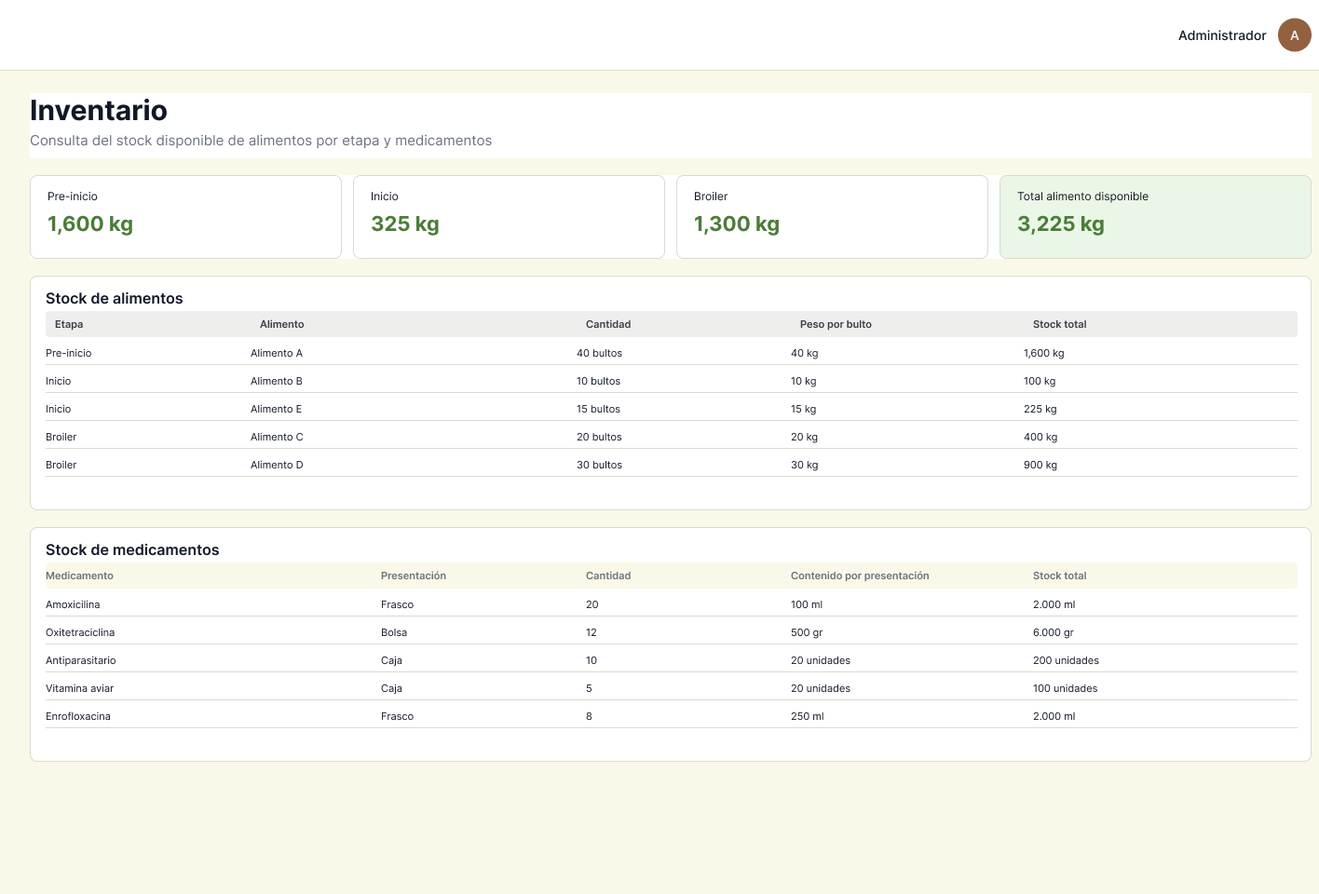
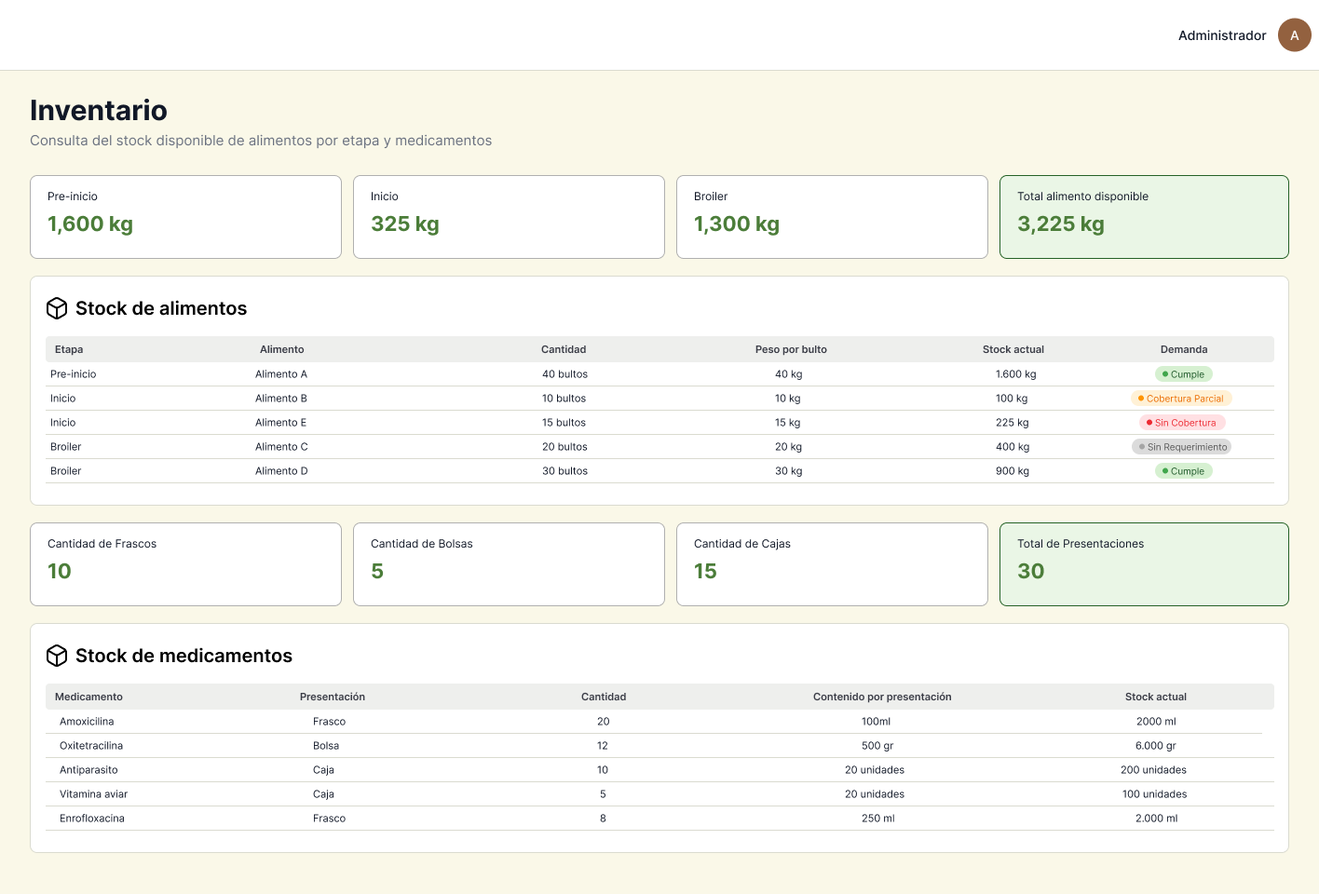
Cambios en los spec 001, 002 y 023 para que coincidan con las pantallas que tambien fueron modificadas

diff --git a/docs/specs/023-ConsultarInventario.md b/docs/specs/023-ConsultarInventario.md
@@ -1,51 +1,58 @@
 # Feature Specification: Consultar inventario
 
 **Created**: 2026-09-22
+**Updated**: 2026-09-25
 
 ## User Scenarios & Testing
 
 ### User Story 1 - Consultar existencias de alimentos y medicamentos (Priority: P1)
 
-Como administrador o nutricionista, quiero consultar en un mismo lugar las existencias disponibles de alimentos y medicamentos de la bodega central para conocer el inventario vigente y apoyar las decisiones de abastecimiento sin modificar sus movimientos.
+Como administrador, quiero consultar en un mismo lugar las existencias disponibles de alimentos y medicamentos de la bodega central para conocer el inventario vigente y apoyar las decisiones de abastecimiento sin modificar sus movimientos.
 
-**Why this priority**: La consulta consolidada permite al administrador y al nutricionista conocer la disponibilidad real de los insumos registrados mediante recepciones y afectados posteriormente por salidas, consumos o ajustes. Esta responsabilidad debe permanecer separada del registro y la edición de recepciones.
+**Why this priority**: La consulta consolidada permite al administrador conocer la disponibilidad real de los insumos registrados mediante recepciones y afectados posteriormente por salidas, consumos o ajustes. Esta responsabilidad debe permanecer separada del registro y la edición de recepciones.
 
-**Independent Test**: Se puede probar registrando recepciones y movimientos confirmados de alimentos y medicamentos, ingresando por separado como administrador y como nutricionista a la consulta y verificando que cada sección muestre los saldos disponibles consolidados en su unidad correspondiente, sin crear ni modificar datos.
+**Independent Test**: Se puede probar registrando recepciones y movimientos confirmados de alimentos y medicamentos, ingresando como administrador y verificando que las tarjetas de resumen y las dos tablas muestren los saldos disponibles consolidados en su unidad correspondiente, sin crear ni modificar datos.
 
 **Acceptance Scenarios**:
 
 1. **Scenario**: Consulta conjunta con existencias disponibles
    - **Given** que existen recepciones y movimientos confirmados de alimentos y medicamentos en la bodega central
-   - **When** el administrador o el nutricionista consulta el inventario
-   - **Then** el sistema muestra una sección de alimentos y otra de medicamentos con las existencias disponibles calculadas a partir de sus movimientos confirmados
+   - **When** el administrador consulta el inventario
+   - **Then** el sistema muestra primero el resumen y la tabla "Stock de alimentos"
+   - **And** muestra a continuación el resumen y la tabla "Stock de medicamentos"
+   - **And** calcula todas las existencias a partir de sus movimientos confirmados
 
 2. **Scenario**: Consulta de existencias de alimentos
    - **Given** que existen alimentos con saldo disponible provenientes de una o varias recepciones
-   - **When** el administrador o el nutricionista consulta la sección de alimentos
-   - **Then** el sistema agrupa las existencias por alimento, tipo de alimento y peso nominal por bulto, y muestra la cantidad disponible en kilogramos y su equivalente en bultos
+   - **When** el administrador consulta la sección de alimentos
+   - **Then** el sistema muestra las tarjetas `Pre-inicio`, `Inicio`, `Broiler` y `Total alimento disponible`, expresadas en kilogramos
+   - **And** presenta en la tabla las columnas `Etapa`, `Alimento`, `Cantidad`, `Peso por bulto`, `Stock actual` y `Demanda`
+   - **And** expresa `Cantidad` en bultos y `Stock actual` en kilogramos
 
 3. **Scenario**: Consulta de existencias de medicamentos
    - **Given** que existen medicamentos con saldo disponible provenientes de una o varias recepciones
-   - **When** el administrador o el nutricionista consulta la sección de medicamentos
-   - **Then** el sistema agrupa las existencias por medicamento, presentación y unidad base, y muestra la cantidad física equivalente y el contenido neto total disponible en `gr`, `ml` o `unidad`
+   - **When** el administrador consulta la sección de medicamentos
+   - **Then** el sistema muestra las tarjetas `Cantidad de Frascos`, `Cantidad de Bolsas`, `Cantidad de Cajas` y `Total de Presentaciones`
+   - **And** presenta en la tabla las columnas `Medicamento`, `Presentación`, `Cantidad`, `Contenido por presentación` y `Stock actual`
+   - **And** expresa el stock actual en la unidad de medida correspondiente (`gr`, `ml` o `unidades`)
 
 4. **Scenario**: Producto registrado sin existencias disponibles
    - **Given** que un alimento o medicamento del catálogo no tiene recepciones confirmadas con saldo disponible
-   - **When** el administrador o el nutricionista consulta el inventario
+   - **When** el administrador consulta el inventario
    - **Then** el sistema muestra el producto con existencia disponible igual a cero, sin confundirlo con un error de consulta
 
 5. **Scenario**: Exclusión de recepciones vencidas o anuladas
    - **Given** que existen recepciones vencidas o anuladas con saldo registrado
-   - **When** el administrador o el nutricionista consulta el inventario
+   - **When** el administrador consulta el inventario
    - **Then** el sistema excluye esas cantidades de la existencia disponible y las identifica como no disponibles
 
 6. **Scenario**: Intento de consulta por un usuario no autorizado
-   - **Given** que un usuario sin rol de administrador ni de nutricionista intenta consultar el inventario
+   - **Given** que un usuario sin rol de administrador intenta consultar el inventario
    - **When** solicita acceder a la consulta
    - **Then** el sistema rechaza el acceso y no expone información de existencias
 
 7. **Scenario**: Consulta sin modificar el inventario
-   - **Given** que el administrador o el nutricionista visualiza las existencias de alimentos y medicamentos
+   - **Given** que el administrador visualiza las existencias de alimentos y medicamentos
    - **When** navega entre las secciones o actualiza la consulta
    - **Then** el sistema vuelve a calcular la información vigente sin crear recepciones, movimientos ni ajustes, y sin modificar los saldos existentes
 
@@ -53,44 +60,86 @@ Como administrador o nutricionista, quiero consultar en un mismo lugar las exist
 
 ### User Story 2 - Consultar resumen del inventario en la pantalla de inicio (Priority: P2)
 
-Como administrador o nutricionista, quiero visualizar en la pantalla de inicio el porcentaje de ocupación de la bodega central, los productos con inventario crítico y las recepciones de alimento registradas recientemente para conocer rápidamente la situación del inventario y decidir si debo revisar su detalle.
+Como administrador, quiero visualizar en la pantalla de inicio el porcentaje de ocupación de la bodega central y las recepciones de alimento registradas recientemente para conocer rápidamente la situación del inventario y decidir si debo revisar su detalle.
 
-**Why this priority**: El resumen permite detectar falta de espacio, agotamientos y niveles bajos sin reemplazar la consulta detallada del inventario ni el registro de recepciones.
+**Why this priority**: El resumen permite conocer la ocupación general y las entradas recientes sin reemplazar la consulta detallada del inventario ni el registro de recepciones.
 
-**Independent Test**: Se puede probar configurando la capacidad máxima de la bodega central, registrando su ocupación vigente, alimentos con saldos de 0 kg, 10 kg y 20 kg, y más de cinco recepciones confirmadas. La pantalla debe calcular el porcentaje de ocupación, clasificar los alimentos como `Sin stock`, `Stock bajo` o `Disponible`, y mostrar únicamente las cinco recepciones de alimento más recientes.
+**Independent Test**: Se puede probar configurando la capacidad máxima de la bodega central, registrando su ocupación vigente y más de cinco recepciones confirmadas. La pantalla debe calcular el porcentaje de ocupación y mostrar únicamente las cinco recepciones de alimento más recientes.
 
 **Acceptance Scenarios**:
 
 1. **Scenario**: Cálculo del porcentaje de ocupación
    - **Given** que la bodega central tiene una capacidad máxima de almacenamiento y una ocupación actual expresadas en la misma unidad
-   - **When** el administrador o el nutricionista ingresa a la pantalla de inicio
+   - **When** el administrador ingresa a la pantalla de inicio
    - **Then** el sistema muestra el porcentaje de ocupación calculado como `ocupación actual ÷ capacidad máxima × 100`
 
-2. **Scenario**: Clasificación del estado de disponibilidad de un alimento
-   - **Given** que el inventario tiene alimentos con 0 kg, con más de 0 kg y menos de 20 kg, y con 20 kg o más disponibles
-   - **When** el administrador o el nutricionista consulta el resumen de inventario crítico
-   - **Then** el sistema los clasifica respectivamente como `Sin stock`, `Stock bajo` y `Disponible`
-
-3. **Scenario**: Visualización de medicamentos críticos
-   - **Given** que cada medicamento o presentación tiene configurado un nivel mínimo de existencia en su unidad base
-   - **When** el administrador o el nutricionista consulta el resumen de inventario crítico
-   - **Then** el sistema muestra `Sin stock` cuando la existencia es cero, `Stock bajo` cuando es mayor que cero pero inferior al mínimo configurado y `Disponible` cuando alcanza o supera ese mínimo
-
-4. **Scenario**: Visualización de recepciones recientes de alimento
+2. **Scenario**: Visualización de recepciones recientes de alimento
    - **Given** que existen más de cinco recepciones de alimento confirmadas
-   - **When** el administrador o el nutricionista ingresa a la pantalla de inicio
+   - **When** el administrador ingresa a la pantalla de inicio
    - **Then** el sistema muestra las cinco recepciones más recientes ordenadas desde la más nueva, indicando código de lote, alimento, cantidad de bultos, precio por bulto, peso por bulto y fecha de ingreso
 
-5. **Scenario**: Resumen sin alterar el inventario
-   - **Given** que el administrador o el nutricionista visualiza o actualiza el resumen del inventario
+3. **Scenario**: Resumen sin alterar el inventario
+   - **Given** que el administrador visualiza o actualiza el resumen del inventario
    - **When** el sistema recalcula sus indicadores
    - **Then** no crea ni modifica la bodega, los productos, las recepciones, los movimientos ni sus existencias
+
+---
+
+### User Story 3 - Consultar cobertura del requerimiento de alimento (Priority: P1)
+
+Como administrador, quiero identificar desde la tabla de stock si las existencias cubren el requerimiento proyectado de alimento de los lotes activos y abrir su detalle, para conocer oportunamente cuándo existe cobertura total, parcial o nula.
+
+**Why this priority**: La comparación permite convertir el inventario y los requerimientos nutricionales en una señal inmediata para la toma de decisiones de abastecimiento, sin reservar ni descontar alimento.
+
+**Independent Test**: Se puede probar configurando cuatro filas de alimento con demanda y stock que produzcan respectivamente los estados `Cumple`, `Cobertura Parcial`, `Sin Cobertura` y `Sin Requerimiento`; cada estado debe mostrarse como un botón del color definido y abrir el modal con los datos de la fila seleccionada.
+
+**Acceptance Scenarios**:
+
+1. **Scenario**: Cobertura total del requerimiento
+   - **Given** una demanda consolidada mayor que `0 kg`
+   - **And** un stock actual mayor o igual a la demanda
+   - **When** el administrador consulta el stock de alimentos
+   - **Then** el sistema muestra un botón verde con la etiqueta `Cumple` en la columna "Demanda"
+
+2. **Scenario**: Cobertura parcial del requerimiento
+   - **Given** una demanda consolidada mayor que `0 kg`
+   - **And** un stock actual mayor que `0 kg` pero menor que la demanda
+   - **When** el administrador consulta el stock de alimentos
+   - **Then** el sistema muestra un botón naranja con la etiqueta `Cobertura Parcial` en la columna "Demanda"
+
+3. **Scenario**: Ausencia de cobertura
+   - **Given** una demanda consolidada mayor que `0 kg`
+   - **And** un stock actual igual a `0 kg`
+   - **When** el administrador consulta el stock de alimentos
+   - **Then** el sistema muestra un botón rojo con la etiqueta `Sin Cobertura` en la columna "Demanda"
+
+4. **Scenario**: Alimento sin requerimiento vigente
+   - **Given** una demanda consolidada igual a `0 kg`
+   - **When** el administrador consulta el stock de alimentos
+   - **Then** el sistema muestra un botón gris con la etiqueta `Sin Requerimiento` en la columna "Demanda"
+
+5. **Scenario**: Consulta del detalle del requerimiento
+   - **Given** que el administrador visualiza uno de los botones de la columna "Demanda"
+   - **When** selecciona el botón
+   - **Then** el sistema abre el modal "Detalles requerimiento de alimento"
+   - **And** muestra en modo de solo lectura los campos `Alimento`, `Etapa`, `Stock actual` y `Demanda`
+   - **And** permite cerrarlo mediante el icono de cierre o el botón "Cancelar"
+
+6. **Scenario**: Medicamentos sin demanda nutricional
+   - **Given** que el administrador consulta el stock de medicamentos
+   - **When** se presenta la tabla de medicamentos
+   - **Then** el sistema no muestra una columna de demanda ni estados de cobertura nutricional
+
+7. **Scenario**: Consulta de cobertura sin movimientos de inventario
+   - **Given** que el administrador abre un detalle de requerimiento
+   - **When** consulta o cierra el modal
+   - **Then** el sistema no reserva alimento, no descuenta existencias y no crea movimientos de inventario
 
 ### Edge Cases
 
 - **Edge case #1 - Movimientos concurrentes durante la consulta**
 
-  - ¿Qué sucede si se confirma una entrada, salida, consumo o ajuste mientras el administrador o el nutricionista tiene abierta la consulta?
+  - ¿Qué sucede si se confirma una entrada, salida, consumo o ajuste mientras el administrador tiene abierta la consulta?
     El sistema debe obtener una vista consistente de los movimientos confirmados al momento de ejecutar o actualizar la consulta. No debe combinar saldos calculados en momentos diferentes dentro de una misma respuesta.
 
 - **Edge case #2 - Alimentos con diferentes pesos nominales por bulto**
@@ -98,96 +147,50 @@ Como administrador o nutricionista, quiero visualizar en la pantalla de inicio e
   - ¿Cómo presenta el sistema varias recepciones del mismo alimento con pesos nominales por bulto diferentes?
     El sistema debe agruparlas por alimento, tipo de alimento y peso nominal por bulto. No debe sumar como una sola cantidad de bultos presentaciones con pesos nominales diferentes; el total general de alimento sí puede consolidarse en kilogramos.
 
-- **Edge case #3 - Medicamentos con unidades base incompatibles**
-
-  - ¿Cómo presenta el sistema existencias de un medicamento registradas en presentaciones con unidades base diferentes?
-    El sistema debe mantener grupos separados por medicamento, presentación y unidad base. No debe sumar entre sí cantidades expresadas en `gr`, `ml` y `unidad`.
-
-- **Edge case #4 - Saldo calculado negativo**
-
-  - ¿Qué sucede si la consolidación de movimientos produce un saldo negativo para una recepción o producto?
-    El sistema debe informar una inconsistencia de inventario, no presentar el valor negativo como existencia disponible y conservar el modo de solo lectura. La consulta no debe crear ajustes automáticos.
-
-- **Edge case #5 - Capacidad máxima igual a cero o no configurada**
-
-  - ¿Cómo calcula el sistema la ocupación cuando la capacidad máxima de la bodega central es cero o no está configurada?
-    El sistema debe indicar que el porcentaje no está disponible, evitar una división por cero y no sustituir la capacidad con un valor supuesto.
-
-- **Edge case #6 - Empate entre recepciones recientes**
-
-  - ¿Cómo ordena el sistema dos recepciones con la misma fecha de ingreso?
-    El sistema debe utilizar en segundo lugar la fecha y hora de registro y, si el empate continúa, el identificador de la recepción para producir un orden estable.
-
 ## Requirements
 
 ### Functional Requirements
 
-- **FR-001**: El sistema DEBE permitir la consulta del inventario exclusivamente a usuarios autenticados con rol de administrador o de nutricionista.
+- **FR-001**: El sistema DEBE permitir la consulta del inventario exclusivamente a usuarios autenticados con rol de administrador.
 - **FR-002**: El sistema DEBE presentar en una misma funcionalidad dos secciones diferenciadas: existencias de alimentos y existencias de medicamentos.
 - **FR-003**: La existencia disponible DEBE calcularse exclusivamente a partir de movimientos confirmados de entrada, salida, consumo y ajuste vinculados con las recepciones de la bodega central.
-- **FR-004**: Para cada grupo de alimentos, el sistema DEBE mostrar el alimento, el tipo de alimento, el peso nominal por bulto, la existencia disponible en kilogramos y la cantidad equivalente en bultos.
-- **FR-005**: El sistema DEBE agrupar los alimentos por alimento, tipo de alimento y peso nominal por bulto, sin mezclar en una misma cantidad de bultos recepciones con pesos nominales diferentes.
-- **FR-006**: El sistema DEBE mostrar el total general de alimento disponible en kilogramos y los subtotales por tipo de alimento.
-- **FR-007**: Para cada grupo de medicamentos, el sistema DEBE mostrar el medicamento, la presentación, la unidad base, la cantidad física equivalente y el contenido neto total disponible.
+- **FR-004**: La tabla "Stock de alimentos" DEBE mostrar exactamente las columnas `Etapa`, `Alimento`, `Cantidad`, `Peso por bulto`, `Stock actual` y `Demanda`; `Cantidad` se expresa en bultos y `Stock actual` en kilogramos.
+- **FR-005**: El sistema DEBE agrupar los alimentos por etapa, alimento y peso nominal por bulto, sin mezclar en una misma cantidad de bultos recepciones con pesos nominales diferentes.
+- **FR-006**: El sistema DEBE mostrar tarjetas con los kilogramos disponibles de las etapas `Pre-inicio`, `Inicio` y `Broiler`, además de la tarjeta `Total alimento disponible` con la suma de todas las etapas.
+- **FR-007**: La tabla "Stock de medicamentos" DEBE mostrar exactamente las columnas `Medicamento`, `Presentación`, `Cantidad`, `Contenido por presentación` y `Stock actual`, conservando la unidad de medida correspondiente.
 - **FR-008**: El sistema DEBE agrupar los medicamentos por medicamento, presentación y unidad base, sin sumar cantidades expresadas en unidades base incompatibles.
 - **FR-009**: El sistema DEBE mostrar los productos activos del catálogo sin saldo disponible con existencia igual a cero.
 - **FR-010**: El sistema DEBE excluir de la existencia disponible los saldos de recepciones vencidas o anuladas e identificarlos como no disponibles.
-- **FR-011**: Cada ejecución o actualización de la consulta DEBE utilizar una vista consistente y vigente de los movimientos confirmados.
-- **FR-012**: Si la consolidación produce un saldo negativo, el sistema DEBE informar una inconsistencia y NO DEBE presentar dicho valor como existencia disponible ni generar ajustes automáticos.
-- **FR-013**: La consulta DEBE operar estrictamente en modo de solo lectura y NO DEBE crear, editar o eliminar recepciones, movimientos, consumos, despachos ni ajustes.
-- **FR-014**: El sistema DEBE rechazar la consulta de inventario realizada por cualquier usuario que no tenga el rol de administrador ni de nutricionista.
-- **FR-015**: La bodega central DEBE disponer de una capacidad máxima de almacenamiento, una ocupación actual y una unidad de capacidad común que permita comparar ambos valores.
-- **FR-016**: El sistema DEBE calcular el porcentaje de ocupación como `ocupación actual ÷ capacidad máxima × 100` y mostrarlo en la pantalla de inicio del administrador y del nutricionista.
-- **FR-017**: Si la capacidad máxima es cero o no está configurada, el sistema DEBE indicar que el porcentaje de ocupación no está disponible y NO DEBE intentar calcularlo.
-- **FR-018**: El estado de disponibilidad de un alimento DEBE calcularse a partir de su existencia vigente: `Sin stock` cuando sea igual a 0 kg, `Stock bajo` cuando sea mayor que 0 kg y menor que 20 kg, y `Disponible` cuando sea igual o superior a 20 kg.
-- **FR-019**: El estado de disponibilidad de un medicamento DEBE calcularse en su unidad base: `Sin stock` cuando su existencia sea cero, `Stock bajo` cuando sea mayor que cero e inferior al mínimo configurado para el medicamento o presentación, y `Disponible` cuando alcance o supere dicho mínimo.
-- **FR-020**: El estado de disponibilidad DEBE ser un valor calculado de la existencia y NO un atributo editable del catálogo de alimentos o medicamentos.
-- **FR-021**: El resumen de inventario crítico DEBE mostrar como mínimo todos los alimentos y medicamentos clasificados como `Stock bajo` o `Sin stock`.
-- **FR-022**: La pantalla de inicio DEBE mostrar las cinco recepciones de alimento confirmadas más recientes, ordenadas por fecha de ingreso, fecha y hora de registro e identificador en orden descendente.
-- **FR-023**: Para cada recepción reciente, el sistema DEBE mostrar código de lote, alimento, cantidad de bultos, precio neto de compra por bulto, peso nominal por bulto y fecha de ingreso.
-- **FR-024**: El resumen del inventario DEBE operar en modo de solo lectura y utilizar la misma información vigente que la consulta detallada.
 
 ### Key Entities
 
-- **Bodega central**: Representa el inventario principal cuyas existencias consultan el administrador y el nutricionista.
+- **Bodega central**: Representa el inventario principal cuyas existencias consulta el administrador.
   - **Atributos utilizados**: capacidad máxima de almacenamiento, ocupación actual y unidad de capacidad.
   - **Relaciones**: recibe las recepciones de alimentos y medicamentos y reúne los movimientos que determinan sus saldos disponibles y su ocupación.
 - **Existencia de alimento**: Representa el resultado de consolidar los movimientos confirmados de alimento.
-  - **Datos mostrados**: alimento, tipo de alimento, peso nominal por bulto, kilogramos disponibles y bultos equivalentes.
+  - **Datos mostrados**: etapa, alimento, cantidad de bultos, peso nominal por bulto, stock actual en kilogramos y estado de demanda.
   - **Origen**: se calcula a partir de las recepciones de alimento definidas en el SPEC-001 y sus movimientos asociados.
 - **Existencia de medicamento**: Representa el resultado de consolidar los movimientos confirmados de medicamento.
-  - **Datos mostrados**: medicamento, presentación, unidad base, cantidad física equivalente y contenido neto total disponible.
+  - **Datos mostrados**: medicamento, presentación, cantidad física, contenido por presentación y stock actual en su unidad de medida.
   - **Origen**: se calcula a partir de las recepciones de medicamento definidas en el SPEC-002 y sus movimientos asociados.
 - **Recepción de alimento**: Representa una entrega de alimento que origina un movimiento de entrada y conserva sus datos históricos.
 - **Recepción de medicamento**: Representa una entrega de medicamento que origina un movimiento de entrada y conserva sus datos históricos.
 - **Movimiento de inventario**: Representa una entrada, salida, consumo o ajuste confirmado que incrementa o disminuye el saldo de una recepción.
   - **Atributos utilizados**: tipo de movimiento, cantidad normalizada, unidad, estado, fecha y hora.
   - **Relaciones**: referencia una recepción de alimento o de medicamento y permite calcular la existencia sin modificar su historial.
-- **Estado de disponibilidad**: Representa la clasificación calculada de una existencia como `Disponible`, `Stock bajo` o `Sin stock`.
-  - **Reglas**: para alimentos utiliza los umbrales en kilogramos; para medicamentos utiliza la existencia y el mínimo configurado en una unidad base compatible.
-  - **Comportamiento**: se recalcula con los movimientos vigentes y no se edita manualmente ni se almacena como estado del producto maestro.
-- **Resumen de inventario**: Representa la información agregada mostrada en la pantalla de inicio del administrador y del nutricionista.
-  - **Datos mostrados**: porcentaje de ocupación, productos con inventario crítico y las cinco recepciones de alimento confirmadas más recientes.
+- **Resumen de inventario**: Representa la información agregada mostrada en la pantalla de inicio del administrador.
+  - **Datos mostrados**: porcentaje de ocupación y las cinco recepciones de alimento confirmadas más recientes.
+- **Cobertura de demanda de alimento**: Representa la comparación de solo lectura entre el stock actual y la demanda proyectada consolidada proveniente del SPEC-022.
+  - **Clave de agrupación**: etapa, alimento y peso nominal por bulto.
+  - **Datos mostrados**: alimento, etapa, stock actual, demanda y estado de cobertura.
+  - **Estados**: `Cumple`, `Cobertura Parcial`, `Sin Cobertura` y `Sin Requerimiento`.
 
 ## Success Criteria
 
 ### Measurable Outcomes
 
-- **SC-001**: Al menos el 90 % de los administradores y el 90 % de los nutricionistas pueden identificar las existencias disponibles de un alimento y un medicamento en menos de 2 minutos.
+- **SC-001**: Al menos el 90 % de los administradores pueden identificar las existencias disponibles de un alimento y un medicamento en menos de 2 minutos.
 - **SC-002**: El 100 % de las existencias mostradas coincide con la consolidación de los movimientos confirmados y excluye recepciones vencidas o anuladas.
 - **SC-003**: El 100 % de las consultas separa correctamente alimentos con pesos nominales diferentes y medicamentos con unidades base incompatibles.
 - **SC-004**: El 95 % de las consultas presenta ambas secciones en un máximo de 2 segundos.
 - **SC-005**: El 100 % de las consultas se ejecuta sin modificar recepciones, movimientos ni saldos de inventario.
-- **SC-006**: El 100 % de los intentos de acceso realizados por usuarios sin rol de administrador ni de nutricionista es rechazado.
-- **SC-007**: El 100 % de los porcentajes de ocupación mostrados coincide con la capacidad máxima y la ocupación vigente de la bodega central.
-- **SC-008**: El 100 % de los alimentos se clasifica correctamente como `Sin stock`, `Stock bajo` o `Disponible` según los umbrales definidos.
-- **SC-009**: El 100 % de los resúmenes muestra como máximo las cinco recepciones de alimento confirmadas más recientes en el orden establecido.
-- **SC-010**: El 95 % de los resúmenes de inventario se presenta en un máximo de 2 segundos sin modificar información.
-
-## Out of Scope
-
-- El registro y la edición de recepciones de alimento, cubiertos por el SPEC-001 *Registrar recepción de alimento*.
-- El registro y la edición de recepciones de medicamento, cubiertos por el SPEC-002 *Registro de recepción de medicamento*.
-- El registro de salidas, despachos, consumos o ajustes de inventario.
-- La creación o administración de los catálogos de alimentos, tipos de alimento, medicamentos y presentaciones.
-- La consulta operativa de alimento o medicación requerida por un galpón para una fecha específica.

diff --git a/docs/specs/002-RegistroRecepcionDeMedicamento.md b/docs/specs/002-RegistroRecepcionDeMedicamento.md
@@ -191,16 +191,5 @@ Como administrador, quiero consultar y filtrar el historial de recepciones de me
 - **SC-001**: Al menos el 90 % de los administradores puede completar un registro de medicamento válido en menos de 3 minutos.
 - **SC-002**: El 95 % de los registros confirmados muestra los cálculos, genera el movimiento de entrada y deja sus precios históricos de compra disponibles para el módulo 3 en un máximo de 2 segundos.
 - **SC-003**: Al menos el 90 % de los usuarios completa correctamente el registro de medicamento en el primer intento durante pruebas de usabilidad.
-- **SC-004**: Al menos el 85 % de los administradores califica la experiencia de registro con 4 o más puntos sobre 5.
-- **SC-005**: El 100 % de los registros y ediciones válidos calcula correctamente el contenido neto total, el precio neto por unidad de medida, el subtotal neto, el valor del impuesto y el precio total.
-- **SC-006**: El 95 % de las búsquedas y filtros del historial presenta los resultados en un máximo de 2 segundos.
-- **SC-007**: El 100 % de los detalles presenta valores consistentes con la recepción seleccionada y no modifica información.
-- **SC-008**: El 100 % de los intentos de editar desde el historial una recepción con movimientos asociados es bloqueado.
 
-## Out of Scope
-
-- La consulta consolidada de existencias de alimentos y medicamentos en la bodega central, cubierta por el SPEC-023 *Consultar inventario*.
-- El registro de salidas, despachos, aplicaciones, consumos o ajustes de medicamentos.
-- La creación o administración del catálogo de medicamentos y sus presentaciones.
-- La definición de los valores concretos permitidos para presentación y unidad de medida.
 

diff --git a/docs/specs/001-RegistrarRecepcionDeAlimento.md b/docs/specs/001-RegistrarRecepcionDeAlimento.md
@@ -200,9 +200,3 @@ Como administrador, quiero consultar y filtrar el historial de recepciones de al
 - **SC-006**: El 95 % de las búsquedas y filtros del historial presenta los resultados en un máximo de 2 segundos.
 - **SC-007**: El 100 % de los detalles presenta valores consistentes con la recepción seleccionada y no modifica información.
 - **SC-008**: El 100 % de los intentos de editar desde el historial una recepción con movimientos asociados es bloqueado.
-
-## Out of Scope
-
-- La consulta consolidada de existencias de alimentos y medicamentos en la bodega central, cubierta por el SPEC-023 *Consultar inventario*.
-- El registro de salidas, despachos, consumos o ajustes de alimento.
-- La creación o administración del catálogo de alimentos y tipos de alimento.
